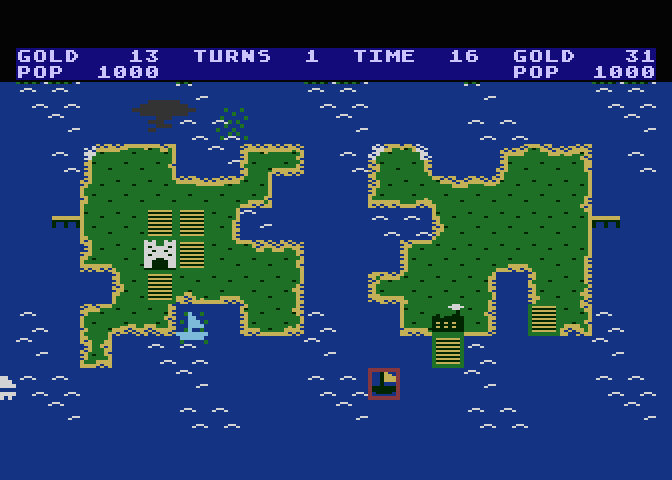
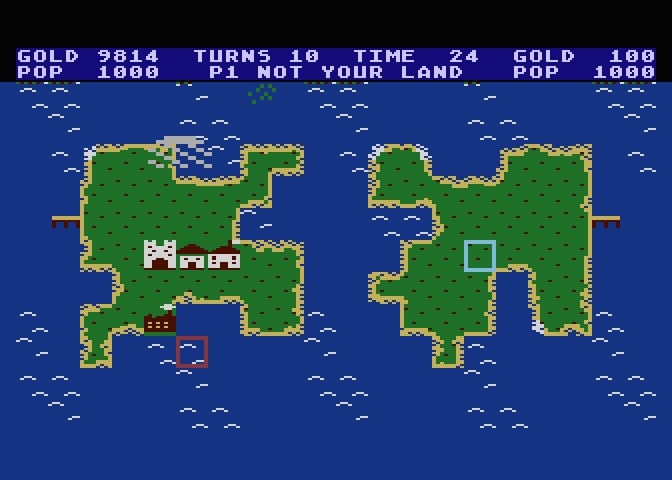
T-GFX-1: brick red accent colour, red roofs
The dark colour (PF1) becomes brick red $32 instead of dark green,
for contrast with the blue and green: house and school roofs, crop
soil, the factory, hulls and flower specks in the grass. D50 updated.

Claude-Session: https://claude.ai/code/session_01NMPWAVXJ2tYSHzLSNAaSfH

diff --git a/tools/mkfont.py b/tools/mkfont.py
@@ -139,12 +139,12 @@ ITEMS = {
     6: ("house", [
         "GGGGGGGG",
         "GGGGGGGG",
-        "GGGYYGGG",
-        "GGYYYYGG",
-        "GYYYYYYG",
-        "YYYYYYYY",
-        "YYYYYYYY",
+        "GGGDDGGG",
+        "GGDDDDGG",
         "GDDDDDDG",
+        "DDDDDDDD",
+        "DDDDDDDD",
+        "GGGGGGGG",
         "GWWWWWWG",
         "GWDWWDWG",
         "GWWWWWWG",
@@ -786,8 +786,8 @@ HELP_ITEMS = {
         "WWWWWWWW", "WDWWWWDW", "WWWDDWWW", "DDDDDDDD"],
     5: ["WWWWWWWW", "WWWDDWWW", "WDDDDDDW", "WWWDDWWW",
         "WWWWWWWW", "WDWDDWDW", "WWWDDWWW", "DDDDDDDD"],
-    6: ["GGGYYGGG", "GGYYYYGG", "GYYYYYYG", "YYYYYYYY",
-        "GDDDDDDG", "GDYDDYDG", "GDDYYDDG", "GDDYYDDG"],
+    6: ["GGGDDGGG", "GGDDDDGG", "GDDDDDDG", "DDDDDDDD",
+        "GWWWWWWG", "GWDWWDWG", "GWWDDWWG", "GWWDDWWG"],
     7: ["GYGGGGYG", "GDGDDGDG", "GDDDDDDG", "DGDDDDGD",
         "GGDDDDGG", "GGDGGDGG", "GDDGGDDG", "GGGGGGGG"],
     8: ["........", "........", "...YY...", "..YYYY..",

diff --git a/tests/test_title.py b/tests/test_title.py
@@ -64,7 +64,7 @@ if text(0, 0xC0) != " REBUILD YOUR WORLD ":
 if text(20, 0x40) != " PRESS FIRE TO PLAY ":
     fail("prompt %r" % text(20, 0x40))
 pal = [m.byte("COLOR0", i) for i in range(5)]
-if pal != [0xC6, 0x2C, 0xC0, 0x0E, 0x94]:
+if pal != [0xC6, 0x2C, 0x32, 0x0E, 0x94]:
     fail("title palette %r" % ["%02X" % c for c in pal])
 if not (m.byte("MZ_ON") and m.byte("MZ_LOOP")):
     fail("no title tune")

diff --git a/docs/DECISIONS.md b/docs/DECISIONS.md
@@ -55,4 +55,4 @@ change one, add a new entry that supersedes it; don't edit history.
 | D47 | 2026-10-28 | Attract-mode demo. After 30 s on the title screen with nothing touched (stick, fire, console key or key), a 1-player game against the level 3 CPU starts by itself (1 round of 30 s; the setup values are kept aside and put back). Player 1 follows a short input script: fort, four crops and a fishing boat on the left island, then the boat taken out and parked south of the islands. After 15 s, or at once on any input, it goes back to the title screen; an input that ends the demo has to be let go before it counts on the title. No music during the demo, sound effects play. `PM_HIDE` clears every player and missile position for the title and setup screens, which have no map DLIs. | Rube's request (2026-10-28): every 30 s a 15 s gameplay demo, then the title again. A CPU for player 1 would need the governor rewritten for either island; a script is small, shows the buying keys and boats, and the CPU on the right shows the rest. |
 | D48 | 2026-10-28 | Attract mode (screen burn-in protection) works again. `INPUT_POLL` zeroes the OS `ATRACT` counter only when a stick, fire, console key or key is down (or held); the VBI no longer zeroes it every frame. The map colours, which the DLI loads from `MAPPAL`, get the OS treatment too: `VBI_D` makes `MAPCOL` = (`MAPPAL` EOR `COLRSH`) AND `DRKMSK` each frame and the DLI reads that. So after about 9 minutes with nothing touched (pause, idle play, title or demo) the OS dims and cycles every playfield colour, and the first input brings them back. Sprite colours the DLI sets (weather, pirates, fish) are not attracted. Status numbers are built in a buffer and each screen byte written once, so blank leading digits no longer flash 0. | Rube found burn-in protection disabled and the empty digits of GOLD etc. flickering zeroes (2026-10-28). The OS VBI already counts and sets `COLRSH`/`DRKMSK`; reusing it costs a few bytes. The 5200 port has no OS attract and will need its own idle timer. |
 | D49 | 2026-10-28 | Keypad controller (T-CTL-2). The setup screen has a fifth line, KEYPAD IN PORT 2 (NO / YES, 0-1; 1 player only, skipped and shown as "-" with 2, like CPU LEVEL). With YES, a 1-player game reads an Atari keypad controller (CX21 Video Touch Pad / CX50, 12 keys) in port 2: 0-9 buy items as the number keys do, * pauses, # shows help. The stick in port 1 still moves the cursor and the keyboard still works. `GAME_START` turns the keypad on (port 2's PORTA lines become outputs, one per row) and `SETUP_ENTER` turns it off. One row is read per frame: its line goes low, `POTGO`, about 8 scan lines' wait on `VCOUNT`, then the left and middle columns from `ALLPOT` (pots 2 and 3) and the right one from `TRIG1`; a key counts after a full 4-row scan, once per press. A row with more than one column down counts as nothing, so an empty port (pots never charge) gives no keys. Unverified on hardware: which pot is the left column, and whether 8 lines is long enough; atari800 does not emulate the controller. | Rube's request (2026-10-28): the keypad as Star Raiders used it, single player only, 800XL first. The XL has 2 ports and a port with a keypad cannot read a stick, so 2 players stay on the keyboard (a 400/800 could later use ports 3 and 4). One row per frame costs ~8 lines of CPU and no WSYNC, so the map DLIs keep their timing. |
-| D50 | 2026-10-30 | The map moves from ANTIC mode 5 to mode 4 (T-GFX-1): a square is 2 × 2 mode 4 characters, 8 × 16 pixels, the same 8 colour clocks × 16 scan lines on screen, so sprites, the grid and the game logic are unchanged. The coast is drawn at 160 × 176 (the eroded bitmap doubled and smoothed): sand along the shore, textured grass, surf in the land squares' water; the open sea has two wave tiles scattered over it. New item art: a white stone fort, golden crop rows, a thatched house with white walls, a white school and hospital, a factory with white smoke. Palette: sea `$94`, grass `$C6`, dark green `$C0` (was black), sand `$2C` (was yellow `$1C`), white `$0E`; the title logo follows it. A DLI at the end of every character row switches fonts (21 DLIs instead of 10); the sprite positions still change once per square row. The coast fits in the same 2 fonts; fonts beyond that would go to `$8800-$9BFF`. The help screen stays in mode 5 with hand-drawn 8 × 8 icons in the same style, and moves to `$4400` to make room for the bigger map screen. | Rube chose mode 4 after the mock-ups (2026-10-30), prompted by a tester who found the graphics weak. Twice the vertical detail per square, a fifth colour per character instead of per tile, and the same square size on screen made it the step up that keeps everything else. |
+| D50 | 2026-10-30 | The map moves from ANTIC mode 5 to mode 4 (T-GFX-1): a square is 2 × 2 mode 4 characters, 8 × 16 pixels, the same 8 colour clocks × 16 scan lines on screen, so sprites, the grid and the game logic are unchanged. The coast is drawn at 160 × 176 (the eroded bitmap doubled and smoothed): sand along the shore, textured grass, surf in the land squares' water; the open sea has two wave tiles scattered over it. New item art: a white stone fort, golden crop rows over red-brown soil, a house with a red tile roof and white walls, a white school with a red roof, a white hospital, a red-brick factory with white smoke. Palette: sea `$94`, grass `$C6`, brick red `$32` (was black; the one warm colour against the blue and green, also the grass's flower specks and the hulls), sand `$2C` (was yellow `$1C`), white `$0E`; the title logo follows it. A DLI at the end of every character row switches fonts (21 DLIs instead of 10); the sprite positions still change once per square row. The coast fits in the same 2 fonts; fonts beyond that would go to `$8800-$9BFF`. The help screen stays in mode 5 with hand-drawn 8 × 8 icons in the same style, and moves to `$4400` to make room for the bigger map screen. | Rube chose mode 4 after the mock-ups (2026-10-30), prompted by a tester who found the graphics weak. Twice the vertical detail per square, a fifth colour per character instead of per tile, and the same square size on screen made it the step up that keeps everything else. |

diff --git a/docs/ARCHITECTURE.md b/docs/ARCHITECTURE.md
@@ -204,7 +204,7 @@ enough because the islands use about 7-8 rows.
 
 A map square is one **tile**: 2 × 2 ANTIC mode 4 characters, 8 × 16
 pixels shown 8 colour clocks wide and 16 scan lines tall (D50). Colours
-(D16, D50): `00` sea (COLBK), `01` grass (PF0), `10` dark green (PF1),
+(D16, D50): `00` sea (COLBK), `01` grass (PF0), `10` brick red (PF1),
 `11` sand (PF2), or white (PF3) in characters with bit 7 set. A
 character is 4 × 8 pixels, so one character can't hold both sand and
 white; a tile's four characters can each be inverse or not.
